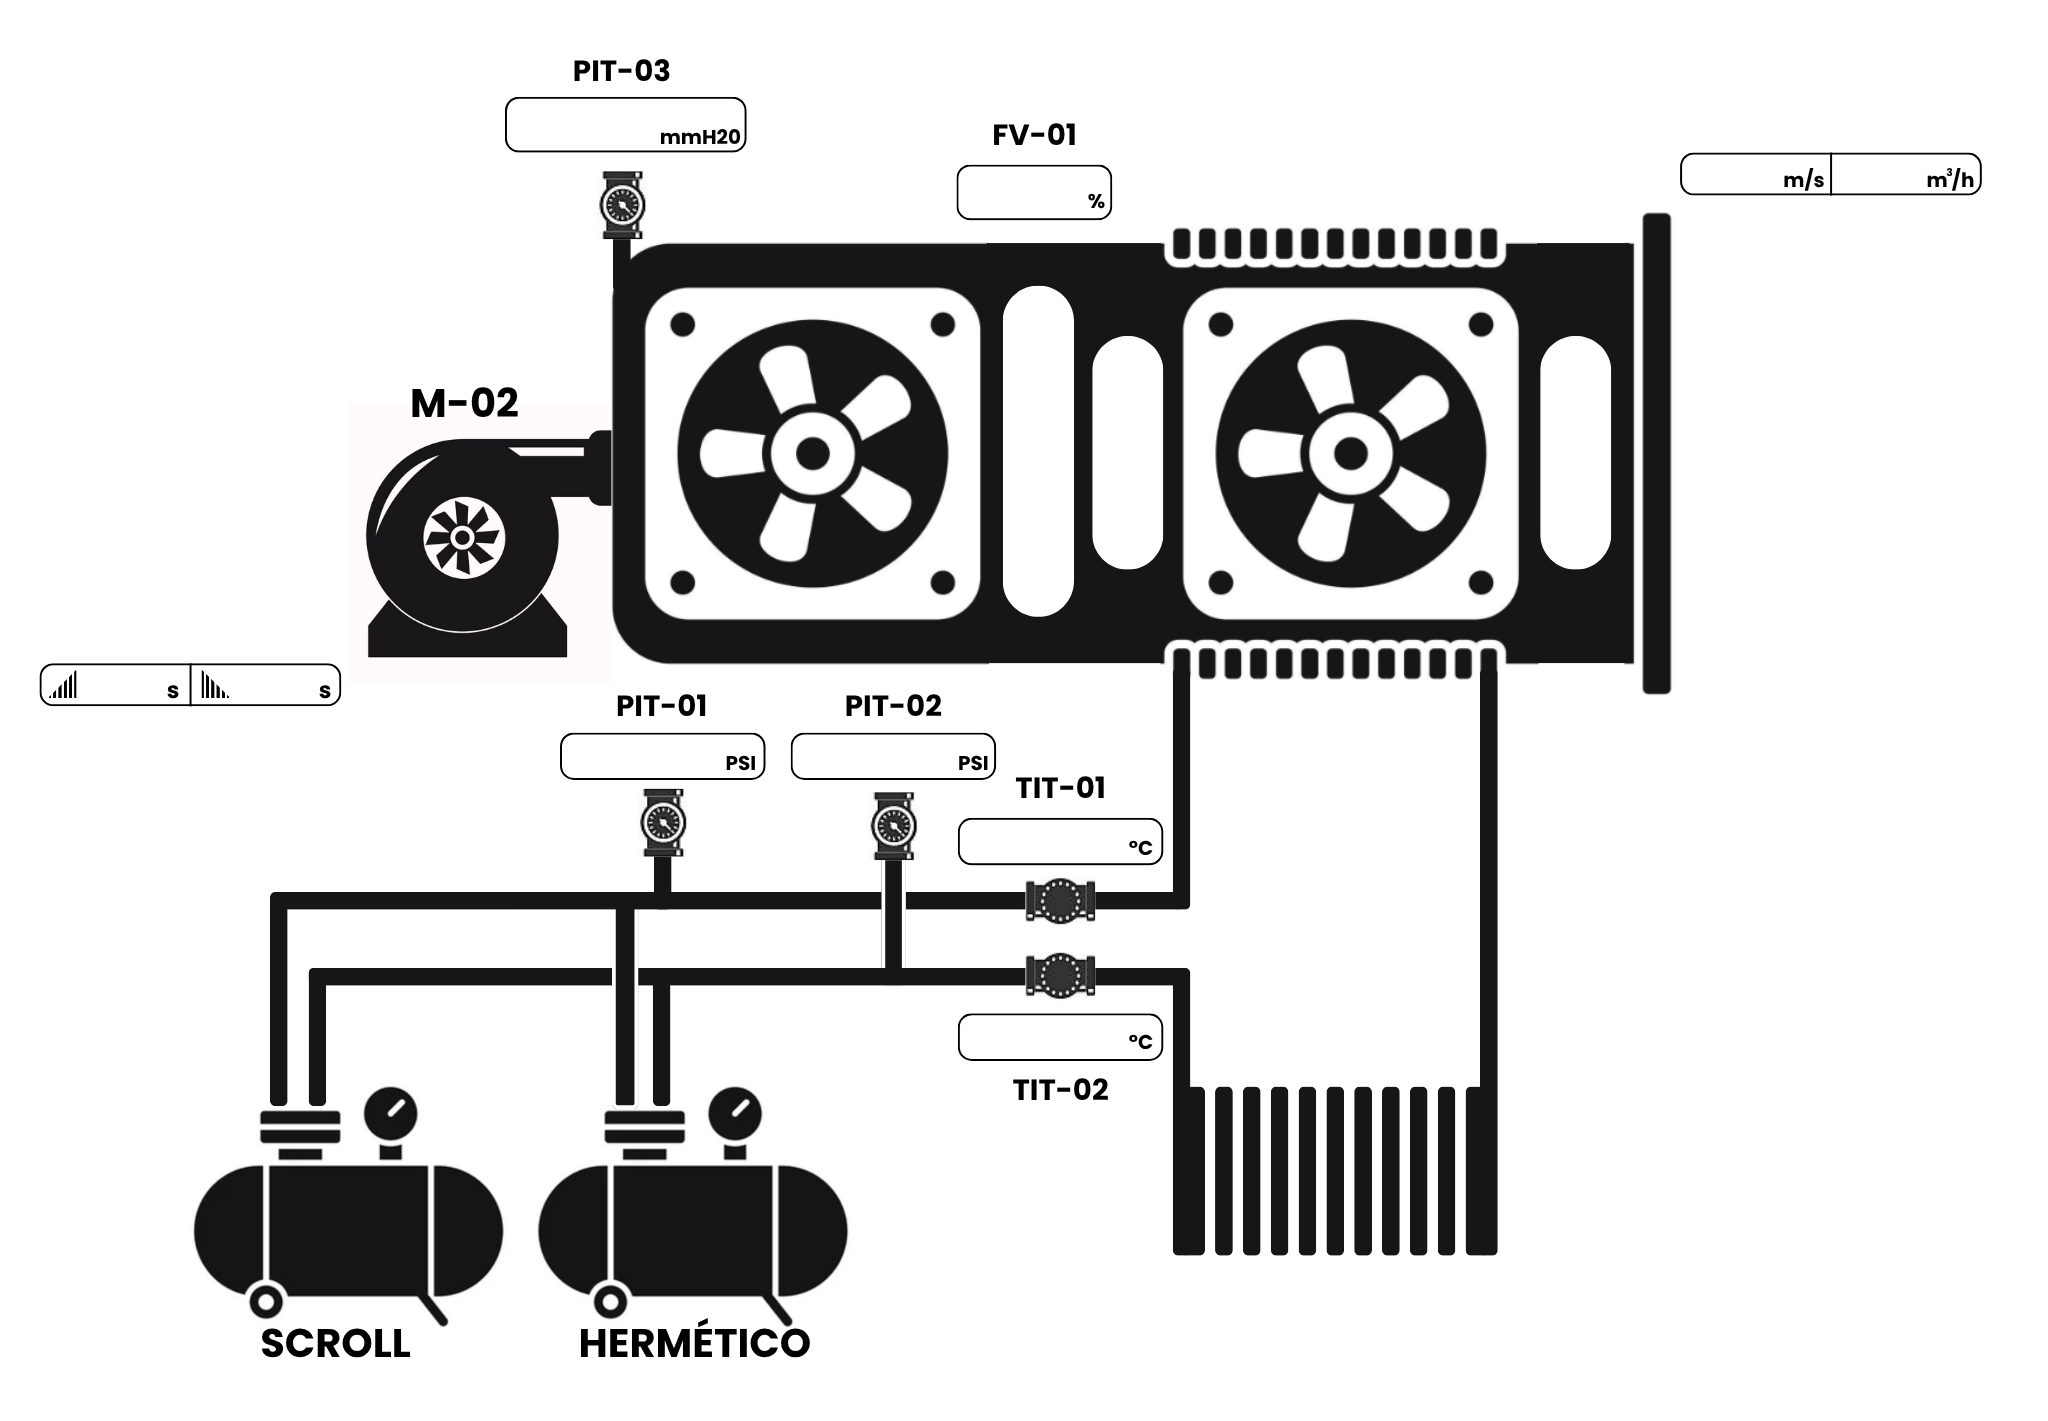
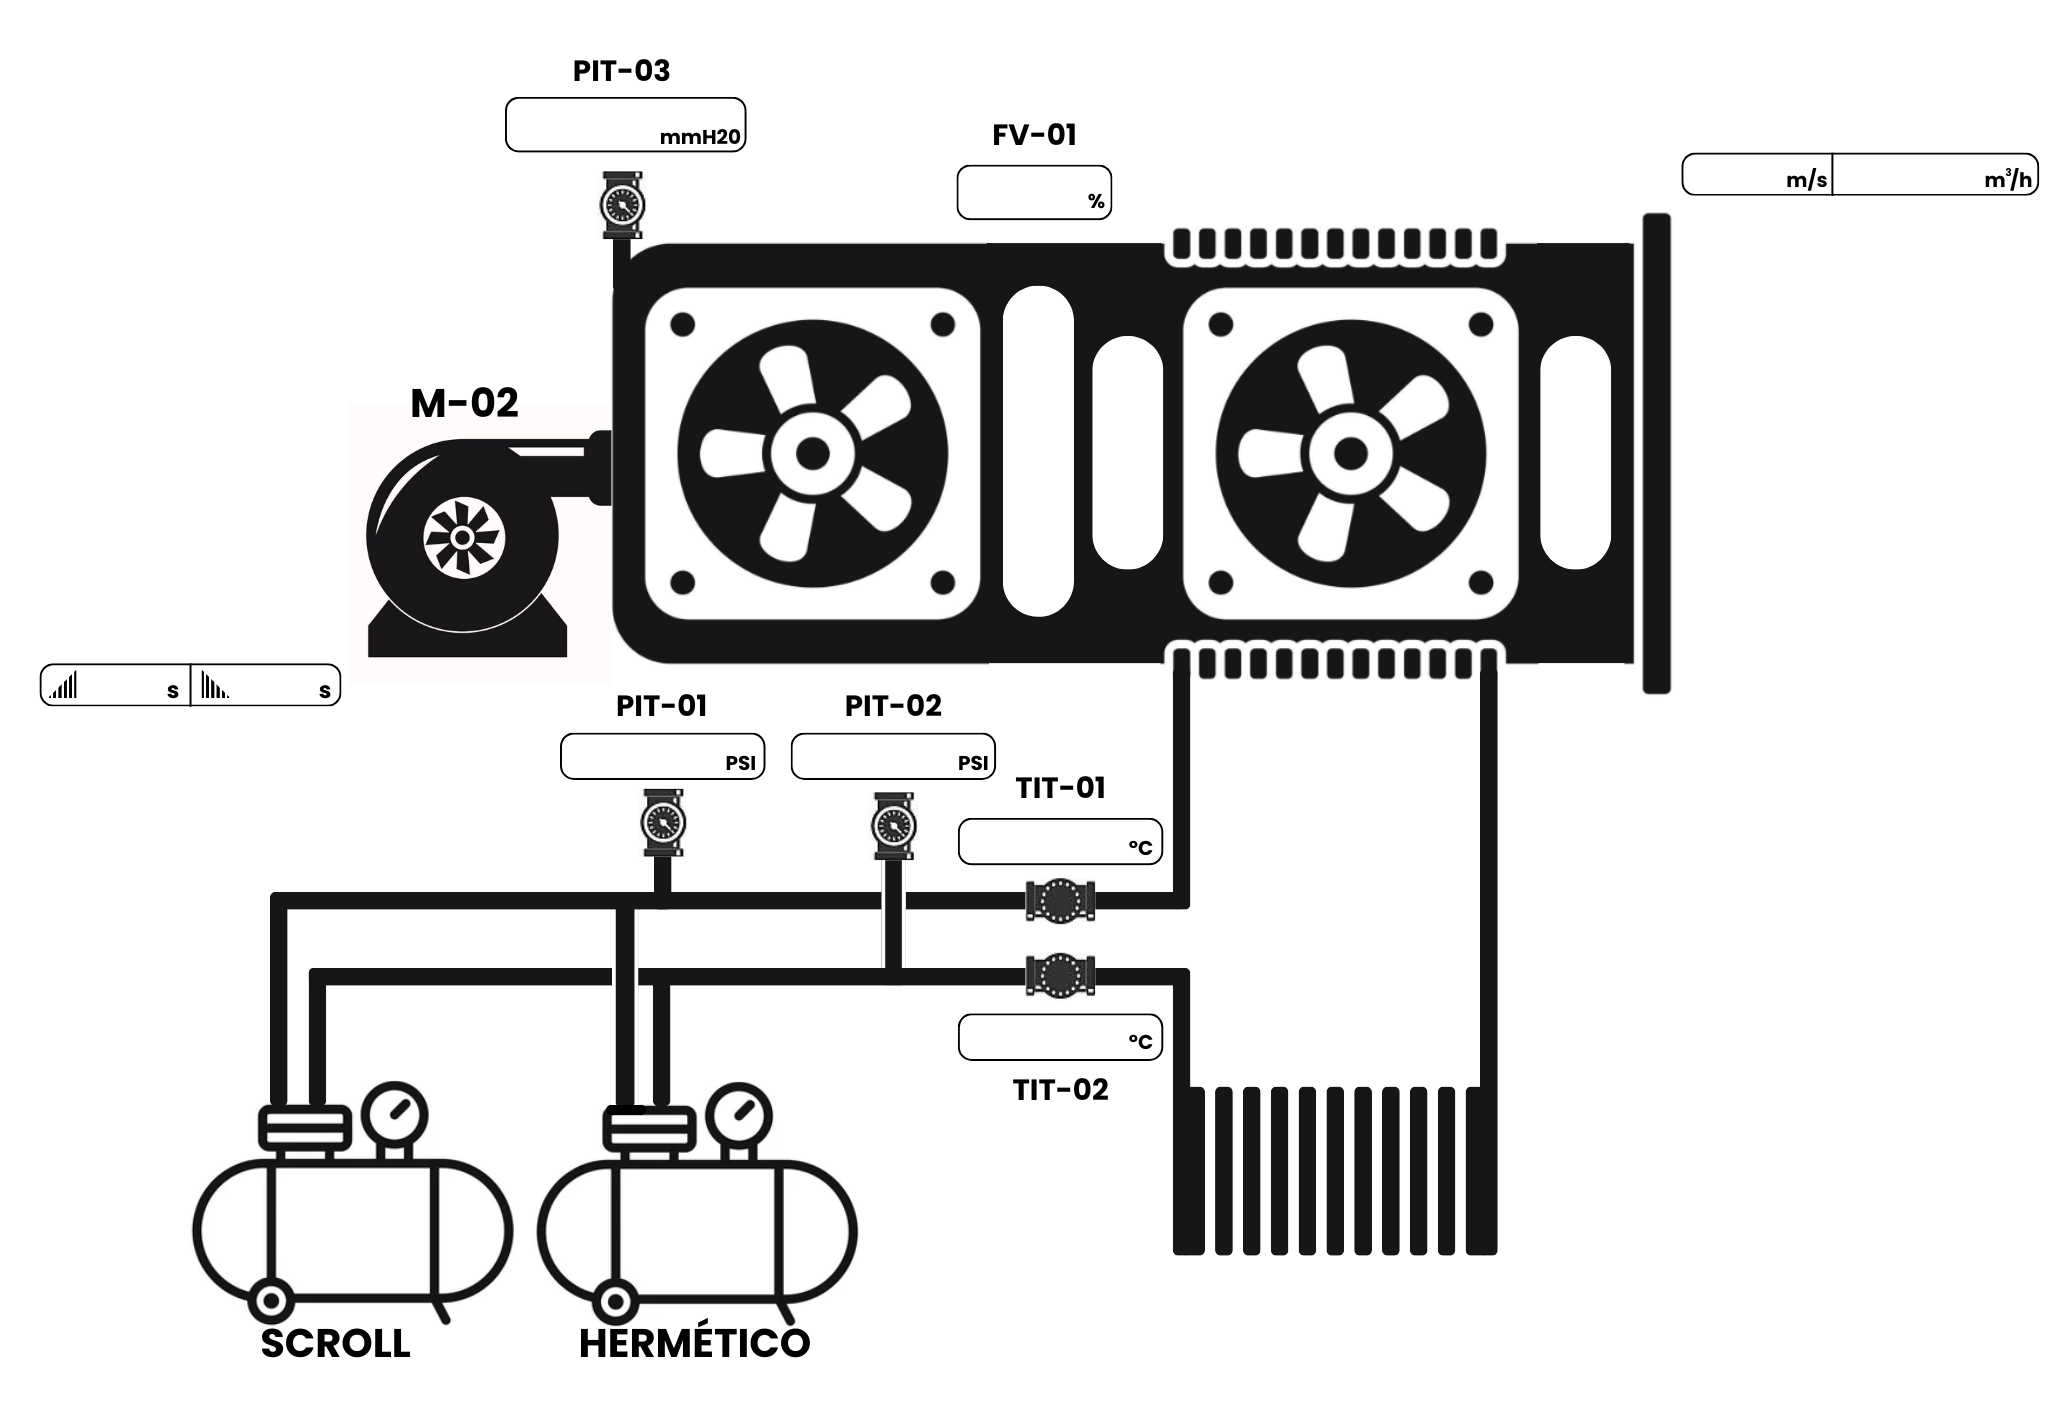
.

Changed region(s): [[0.0938, 0.7431, 0.4375, 0.9289], [0.9375, 0.0929, 1.0, 0.1548], [0.875, 0.1239, 0.9062, 0.1548]]

diff --git a/mainwidget.py b/mainwidget.py
@@ -171,17 +171,32 @@ class MainWidget(BoxLayout):
             self.ids.tit02.text = f"{self._meas['values']['ve.tit02']}"
 
         # Atualização das labels do popup Leituras
-        for key,value in self._tags.items():
+        for key, value in self._tags.items():
             if self.ids.get(key) != None:
                 self.ids[key].text = str(self._meas['values'][key])
             elif self._leitura.ids.get(key) != None:
                 self._leitura.ids[key].text = str(self._meas['values'][key])
+
+        # Atualização das labels do popup Atuacao
+#        self._atuacao.ids.termo_temp.text = f"{self._meas['values']['ve.sp_termo']}"
+#        self._atuacao.ids.freqC.text = f"{self._meas['values']['ve.frequencia_co']}"
 
         # Atualização do nível do termômetro
         self.ids.lb_temp.size = (self.ids.lb_temp.size[0],self._meas['values']['Temperatura_saida']/45*self.ids.termometro.size[1])
 
         # Atualização do widget de vazão
         self.ids.lb_vazao.size = (self.ids.vazao.size[0] * self._meas['values']['Vazao_saida_ar'] / 2000, self.ids.vazao.size[1])
+
+        # Atualização estado dos botoes
+        self.ids.btn_soft.background_normal = "imgs/botao_soft_press.jpg" if self._meas['values']['ve.indica_driver'] == 1 else "imgs/botao_soft.jpg"
+        self.ids.btn_inversor.background_normal = "imgs/botao_inv_press.jpg" if self._meas['values']['ve.indica_driver'] == 2 else "imgs/botao_inv.jpg"
+        self.ids.btn_direta.background_normal = "imgs/botao_direta_press.jpg" if self._meas['values']['ve.indica_driver'] == 0 else "imgs/botao_direta.jpg"
+
+        # Atualização estado dos compressores
+        if self._meas['values']['ve.sel_tipo_compressor'] == 0:
+            self.ids.base_ig.source = "imgs/base_scroll_on.png" if self._meas['values']['ve.st_compressor'] == 0 else "imgs/base_scroll_off.png"
+        if self._meas['values']['ve.sel_tipo_compressor'] == 1:
+            self.ids.base_ig.source = "imgs/base_hermetico_on.png" if self._meas['values']['ve.st_compressor'] == 0 else "imgs/base_hermetico_off.png"
 
         # Atualização do gráfico    
         if (self._selected_tag in self._meas['values']and self._meas['values'][self._selected_tag] is not None ):
@@ -269,11 +284,6 @@ class MainWidget(BoxLayout):
 
     def selecionarPartida(self, tipo):
         self.tipo_partida = tipo
-
-        # Atualiza imagens dos botões
-        self.ids.btn_soft.background_normal = "imgs/botao_soft_press.jpg" if tipo == 1 else "imgs/botao_soft.jpg"
-        self.ids.btn_inversor.background_normal = "imgs/botao_inv_press.jpg" if tipo == 2 else "imgs/botao_inv.jpg"
-        self.ids.btn_direta.background_normal = "imgs/botao_direta_press.jpg" if tipo == 3 else "imgs/botao_direta.jpg"
 
         with self._lock:
             self._modbusClient.write_single_register(1324,tipo)

diff --git a/main.py b/main.py
@@ -48,8 +48,12 @@ class MainApp(App):
             've.pit01': {'addr': 1222, 'tipo': 'FP', 'l/e': 'l', 'div': 10, 'unid': 'PSI'},
             've.pit02': {'addr': 1224, 'tipo': 'FP', 'l/e': 'l', 'div': 10, 'unid': 'PSI'},
             've.pit03': {'addr': 1226, 'tipo': 'FP', 'l/e': 'l', 'div': 10, 'unid': 'mmH2O'},
-            've.nv_escreve': {'addr': 1310, 'tipo': 'FP', 'l/e': 'l/e', 'div': 1, 'unid': '%'},
-            've.habilita': { 'addr': 1330, 'tipo': '4X','div':	1, 'bit': 3}
+            've.mv_escreve': {'addr': 1310, 'tipo': 'FP', 'l/e': 'l/e', 'div': 1, 'unid': '%'},
+            've.sp_termo': {'addr': 1338, 'tipo': '4X', 'l/e': 'l/e', 'div': 1, 'unid': '°C'},
+            've.frequencia_co': {'addr': 751, 'tipo': '4X', 'l/e': 'l/e', 'div': 100, 'unid': 'Hz'},
+            've.indica_driver': {'addr': 1216, 'tipo': '4X', 'l/e': 'l', 'div': 1},
+            've.st_compressor': { 'addr': 1331, 'tipo': '4X','div': 1, 'bit': 5},
+            've.sel_tipo_compressor': { 'addr': 1328, 'tipo': '4X','div': 1, 'bit': 1}
         }
         )
 

diff --git a/fake_modbus_server.py b/fake_modbus_server.py
@@ -77,5 +77,5 @@ if __name__ == "__main__":
     t.daemon = True
     t.start()
 
-    print("Servidor Modbus fake rodando em 127.0.0.1:5020")
-    StartTcpServer(context, address=("localhost", 5020))
+    print("Servidor Modbus fake rodando em 127.0.0.1:502")
+    StartTcpServer(context, address=("localhost", 502))
